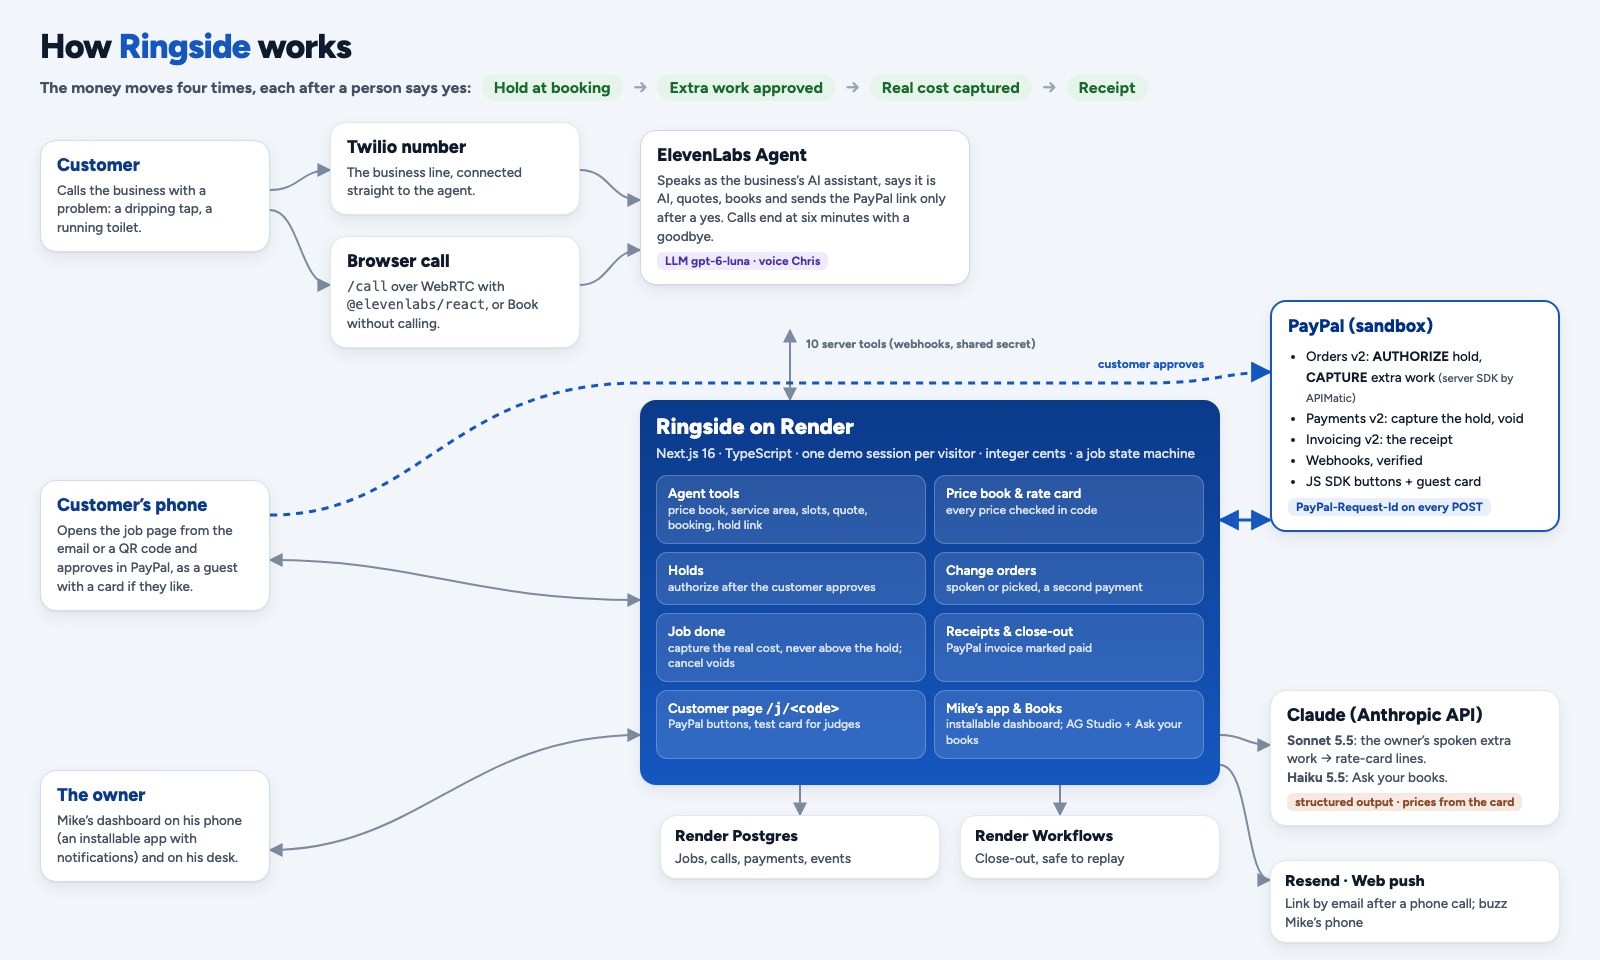
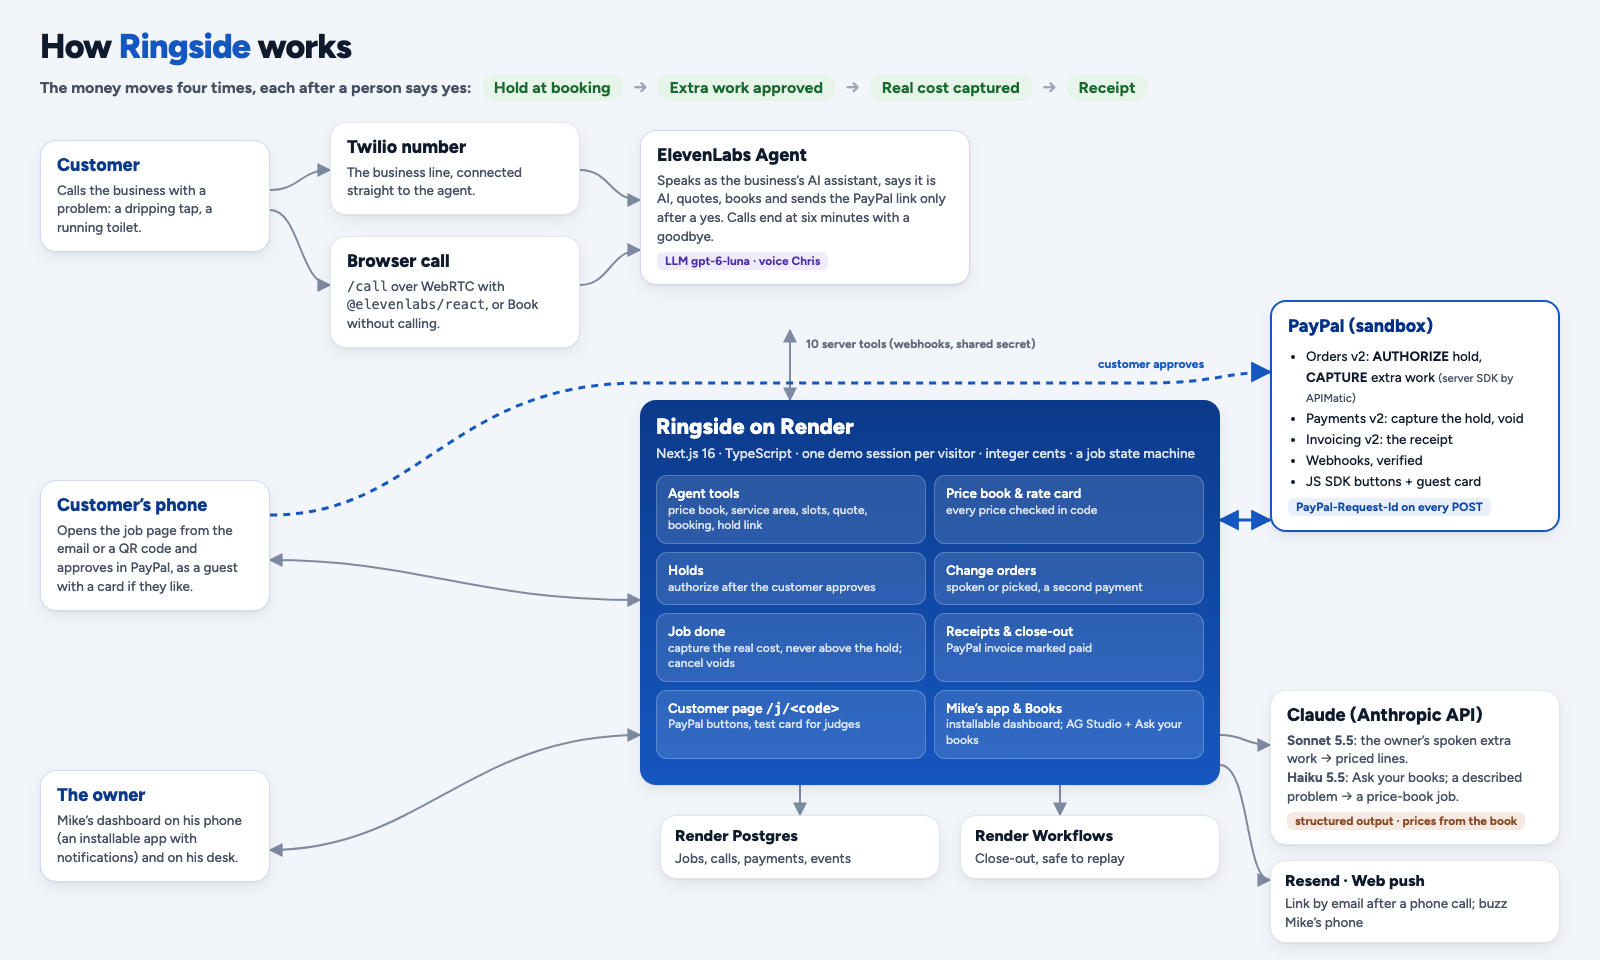
Add the README's business section, the problem matcher and clearer setup steps
These README and diagram changes were meant for 1b467c1, which only
carried the moved image notes.

The README now says how Ringside makes money: about $49 a month per
business with calls included up to a limit, PayPal's usual fees on
payments, and how a business would sign up and connect its own PayPal
account. Next steps name multiparty onboarding, subscription billing,
onboarding and a pilot. Book without calling's "describe it in your own
words" is in How it works and the tech table, and the architecture
diagram shows that use of Haiku. The comparison says most AI phone
agents stop at the booking and a few text a deposit link.

Run it yourself now gives the local DATABASE_URL, says the agent's
tools and PayPal's webhooks need a public HTTPS address or a tunnel,
runs the voice setup before configuring the agent, explains the tool
secret, and lists the two variables the table was missing.

Changed region(s): [[0.7812, 0.7812, 0.9688, 0.875]]

diff --git a/assets/src/architecture.html b/assets/src/architecture.html
@@ -135,8 +135,8 @@
 
   <div class="box claude" style="left:1270px; top:690px; width:290px;">
     <h2>Claude (Anthropic API)</h2>
-    <p><b>Sonnet 5.5</b>: the owner’s spoken extra work → rate-card lines.<br><b>Haiku 5.5</b>: Ask your books.</p>
-    <span class="tag">structured output · prices from the card</span>
+    <p><b>Sonnet 5.5</b>: the owner’s spoken extra work → priced lines.<br><b>Haiku 5.5</b>: Ask your books; a described problem → a price-book job.</p>
+    <span class="tag">structured output · prices from the book</span>
   </div>
   <div class="box infra" style="left:1270px; top:860px; width:290px; padding:10px 14px;">
     <h2 style="font-size:16px;">Resend · Web push</h2>

diff --git a/README.md b/README.md
@@ -95,15 +95,16 @@ owner's dashboard to add charges and finish the job. No mic? **Book without call
 
 ## How it's different
 
-AI phone agents for trades are everywhere now, typically $99 to $299 a month[^price], and they stop at the booking.
-Field-service suites take payments, as office paperwork after the job. Ringside carries the call all the way to the
-payment.
+AI phone agents for trades are everywhere now, typically $99 to $299 a month[^price], and most stop at the booking; a
+few text a deposit link. Field-service suites take payments, as office paperwork after the job. Ringside carries the
+whole job to the payment: a hold, not a charge, before the visit, extra work approved on site, and only the real cost
+captured.
 
 | | Most AI phone agents for trades | Field-service suites | Ringside |
 |---|---|---|---|
 | Answers the call around the clock | Yes | As an add-on | Yes |
 | Quotes a price on the call, from the business's own price book | Usually not | No | Yes, a range, read back to the caller |
-| Secures the payment before the visit | No | Usually not | Yes, a PayPal hold for the top of the range |
+| Secures the payment before the visit | Rarely; a few text a deposit link | Usually not | Yes, a PayPal hold for the top of the range, not a charge |
 | Extra work found on site, approved and paid before work goes on | No | A change order, usually billed later | Yes: the owner says it, the customer approves it in PayPal |
 | Charges the real cost, never more than the customer approved | No | An invoice after the job | Yes, captured from the hold; the rest is released |
 | Receipt | No | Yes | Yes, a PayPal invoice marked paid |
@@ -117,7 +118,9 @@ Every business on Ringside runs the same flow; the screens below are the demo bu
 1. **The call.** A customer in Mike's area (the Saginaw Tri-Cities, Michigan) phones the business or calls from the
    browser. The ElevenLabs agent says it is an AI assistant answering for Mike, finds the job in Mike's price book,
    quotes its range (a dripping faucet is $125 to $250), asks which day and time suit the caller, and offers Mike's open windows then. Calls end at six minutes, and the
-   agent says goodbye before that.
+   agent says goodbye before that. Without a call, **Book without calling** lets the customer describe the problem in
+   their own words: Claude Haiku 5.5 picks the one job in the price book that fits, a repair before a replacement, and
+   the form shows its range, a day and time to choose, and the same read-back before the hold.
 
 <img src="assets/screens/call.jpg" width="100%" alt="The browser call page: the transcript on the left; on the right the booking card with the faucet leak repair at $125 to $250, ZIP 48602 in the service area, today 10 am to 12 pm, and an Approve with PayPal button for a hold up to $250.00">
 
@@ -213,6 +216,7 @@ Measured against the real PayPal sandbox, the phone line and the Anthropic API o
 | Payments | PayPal Orders v2 (`AUTHORIZE`, `CAPTURE`) and Payments v2 (capture, void), through the server SDK | The hold, the change order's second payment, the final capture; every POST carries a stored `PayPal-Request-Id` ([`src/lib/paypal.ts`](src/lib/paypal.ts), [`src/lib/holds.ts`](src/lib/holds.ts), [`src/lib/change-orders.ts`](src/lib/change-orders.ts), [`src/lib/job-done.ts`](src/lib/job-done.ts)) |
 | Customer page | Next.js page with PayPal's JavaScript SDK buttons and guest card checkout | Approve the hold, approve or decline extra work, see the charge and receipt ([`src/app/j/[code]/page.tsx`](src/app/j/[code]/page.tsx)) |
 | Change-order parser | Claude Sonnet 5.5 (`claude-sonnet-5-5`, Anthropic API), structured output with a strict JSON schema | Names rate-card items, quantities and price-book jobs only; the code takes every price from the card or the job's range and rejects unknown items, prices from the model and quantities past the card's limits ([`src/lib/change-order-parser.ts`](src/lib/change-order-parser.ts), [`src/lib/change-pricing.ts`](src/lib/change-pricing.ts)) |
+| Problem matcher | Claude Haiku 5.5 (`claude-haiku-5-5`), structured output whose only allowed answer is a price-book code | Book without calling: "my kitchen tap won't stop dripping" becomes one job from the book; the job, its range and the hold always come from the book, a gas smell gets safety advice instead of a booking, and matches are limited per visitor and per day ([`src/lib/problem-matcher.ts`](src/lib/problem-matcher.ts)) |
 | Mike's app | Next.js, installable PWA, the browser's speech recognition | Today with the job he's on first, the job screen with Add charges, Job done and Cancel job (which voids the PayPal hold and releases the money), a QR code for on-site approval, find a phone booking by its job code ([`src/app/dashboard/`](src/app/dashboard/page.tsx)) |
 | Receipts | PayPal Invoicing v2 | After the capture, an invoice for the job and any extra work, recorded as paid: emailed when PayPal has the payer's email, otherwise a link. Repeat-safe through the invoice's own state ([`src/lib/receipts.ts`](src/lib/receipts.ts)) |
 | Close-out | Render Workflows (`@renderinc/sdk`) | Receipt, then close the job; retried by Render, every step idempotent; runs inline when no workflow key is set ([`workflows/close-out.ts`](workflows/close-out.ts), [`src/lib/close-out.ts`](src/lib/close-out.ts)) |
@@ -230,18 +234,23 @@ PayPal runs in the sandbox only: the server refuses to start unless `PAYPAL_ENV=
 ## Run it yourself
 
 You need Node 24, Docker (for a local Postgres), a PayPal developer account with a sandbox app on a US business
-account, an Anthropic API key for the change-order parser, and, for the voice parts, an ElevenLabs account and a Twilio
-number.
+account, an Anthropic API key for the change-order parser and the problem matcher, and, for the voice parts, an
+ElevenLabs account and a Twilio number. The agent's tools and PayPal's webhooks call your app, so they need a public
+HTTPS address: your deployed URL, or a tunnel (Cloudflare Tunnel, ngrok) to `localhost:3000` while you develop.
+With a database and no API keys the site still runs: the pages, the sample day and the recorded call work, and the parts that need a
+key say so.
 
 ```bash
 git clone https://github.com/padmanabhan-r/Ringside && cd Ringside
 npm ci
 cp .env.example .env          # fill in the values below
 docker run -d --name ringside-pg -e POSTGRES_PASSWORD=postgres -e POSTGRES_DB=ringside \
-  -p 127.0.0.1:5432:5432 postgres:18
+  -p 127.0.0.1:5432:5432 postgres:18   # if 5432 is taken, map another port and change DATABASE_URL
+# DATABASE_URL=postgres://postgres:postgres@127.0.0.1:5432/ringside
 node --env-file=.env scripts/migrate.mjs
-node --env-file=.env scripts/agent/configure.mjs     # tools and prompt on your ElevenLabs agent
-node --env-file=.env scripts/paypal/create-webhook.mjs   # prints PAYPAL_WEBHOOK_ID
+node --env-file=.env scripts/gates/setup-voice.mjs   # creates the agent, connects your Twilio number, saves ELEVENLABS_AGENT_ID
+node --env-file=.env scripts/agent/configure.mjs     # the agent's prompt, ten tools, call limits and tool secret
+node --env-file=.env scripts/paypal/create-webhook.mjs   # needs the https APP_BASE_URL; prints PAYPAL_WEBHOOK_ID
 npm run dev                   # http://localhost:3000
 ```
 
@@ -251,12 +260,13 @@ npm run dev                   # http://localhost:3000
 | `PAYPAL_CLIENT_ID`, `PAYPAL_CLIENT_SECRET` | The PayPal sandbox app's credentials |
 | `PAYPAL_WEBHOOK_ID` | Verifying PayPal webhook deliveries |
 | `DATABASE_URL` | Postgres |
-| `APP_BASE_URL` | The public address in links the agent and the app hand out |
-| `ELEVENLABS_API_KEY`, `ELEVENLABS_AGENT_ID` | The voice agent and the browser call |
-| `ELEVENLABS_TOOL_SECRET` | Authenticating the agent's tool calls |
-| `ELEVENLABS_AGENT_LLM` | The agent's model (optional; default `gpt-6-luna`) |
+| `APP_BASE_URL` | The public HTTPS address: links the agent and the app hand out, the agent's tool calls, PayPal's webhooks |
+| `ELEVENLABS_API_KEY`, `ELEVENLABS_AGENT_ID` | The voice agent and the browser call. No phone line? Create an agent in the ElevenLabs dashboard and set its ID instead of running `setup-voice.mjs` |
+| `ELEVENLABS_TOOL_SECRET` | A long random string you choose: `configure.mjs` stores it in ElevenLabs and the agent sends it with every tool call |
+| `ELEVENLABS_AGENT_LLM`, `ELEVENLABS_AGENT_REASONING` | The agent's model and reasoning effort (optional; default `gpt-6-luna`, `low`) |
 | `TWILIO_PHONE_NUMBER`, `TWILIO_ACCOUNT_SID`, `TWILIO_API_KEY_SID`, `TWILIO_API_KEY_SECRET`, `TWILIO_AUTH_TOKEN` | Importing the phone line into ElevenLabs (setup only) |
-| `LLM_API_KEY`, `LLM_MODEL` | The change-order parser (Anthropic API key; default `claude-sonnet-5-5`) |
+| `TWILIO_TEST_CALLER_ID` | A verified phone of yours for `scripts/gates/test-call.mjs` (optional: a Twilio number can't call itself) |
+| `LLM_API_KEY`, `LLM_MODEL` | Anthropic API key for the change-order parser, Ask your books and the problem matcher; `LLM_MODEL` is the parser's model (optional; default `claude-sonnet-5-5`) |
 | `RESEND_API_KEY`, `EMAIL_FROM` | Emailing the PayPal link to phone callers (optional: without them the agent reads out the job code) |
 | `AG_STUDIO_LICENSE_KEY` | AG Studio's licence (without it, a trial watermark shows) |
 | `BOOKS_LLM_MODEL` | Ask your books' model (optional; default `claude-haiku-5-5`) |
@@ -271,7 +281,8 @@ each one comes from.
 
 Working end to end in the sandbox: the phone and browser calls, the quote from the price book, the PayPal hold and its
 approval (PayPal or guest card), the spoken change order as a second payment, job done with the final capture, the
-receipt invoice and the close-out, Mike's installable app, and Mike's Books with its agent, on the live site.
+receipt invoice and the close-out, Mike's installable app, and Mike's Books with its agent. Each step is checked
+against the real APIs, and all of it is deployed on the live site.
 
 - PayPal runs in the sandbox only, in USD.
 - A hold can grow by at most 15% at capture, so extra work is always a separate payment.
@@ -281,9 +292,21 @@ receipt invoice and the close-out, Mike's installable app, and Mike's Books with
 - The Books chart's value axis shows plain numbers: AG Studio's built-in chart doesn't format it as dollars.
 - Speaking the extra work uses the browser's speech recognition; where a browser lacks it, Mike types or picks it.
 
+## The business
+
+Ringside is a subscription: about $49 a month per business, with calls included up to a limit, and PayPal's usual fees
+on payments. A business signs up, connects its own PayPal account so the money goes straight to it, loads its price
+book from a trade template or an AI import of its price list, and forwards its phone number. The demo runs one
+business on one sandbox merchant.
+
 ## Next steps
 
-- **The demo video,** and the public demo kept up through the end of judging.
+- **Multiparty onboarding:** PayPal partner approval so each business is paid into its own PayPal account. Sandbox
+  orders already accept another seller as the payee; seller sign-up through the Partner Referrals API needs a
+  Platform app, the next step.
+- **Billing:** the subscription through PayPal's Subscriptions API.
+- **Onboarding:** sign-up, Connect with PayPal, a price book from a template or an AI import, and call forwarding.
+- **A pilot with local trades,** after the demo video and with the public demo kept up through the end of judging.
 
 ## Repository
 
